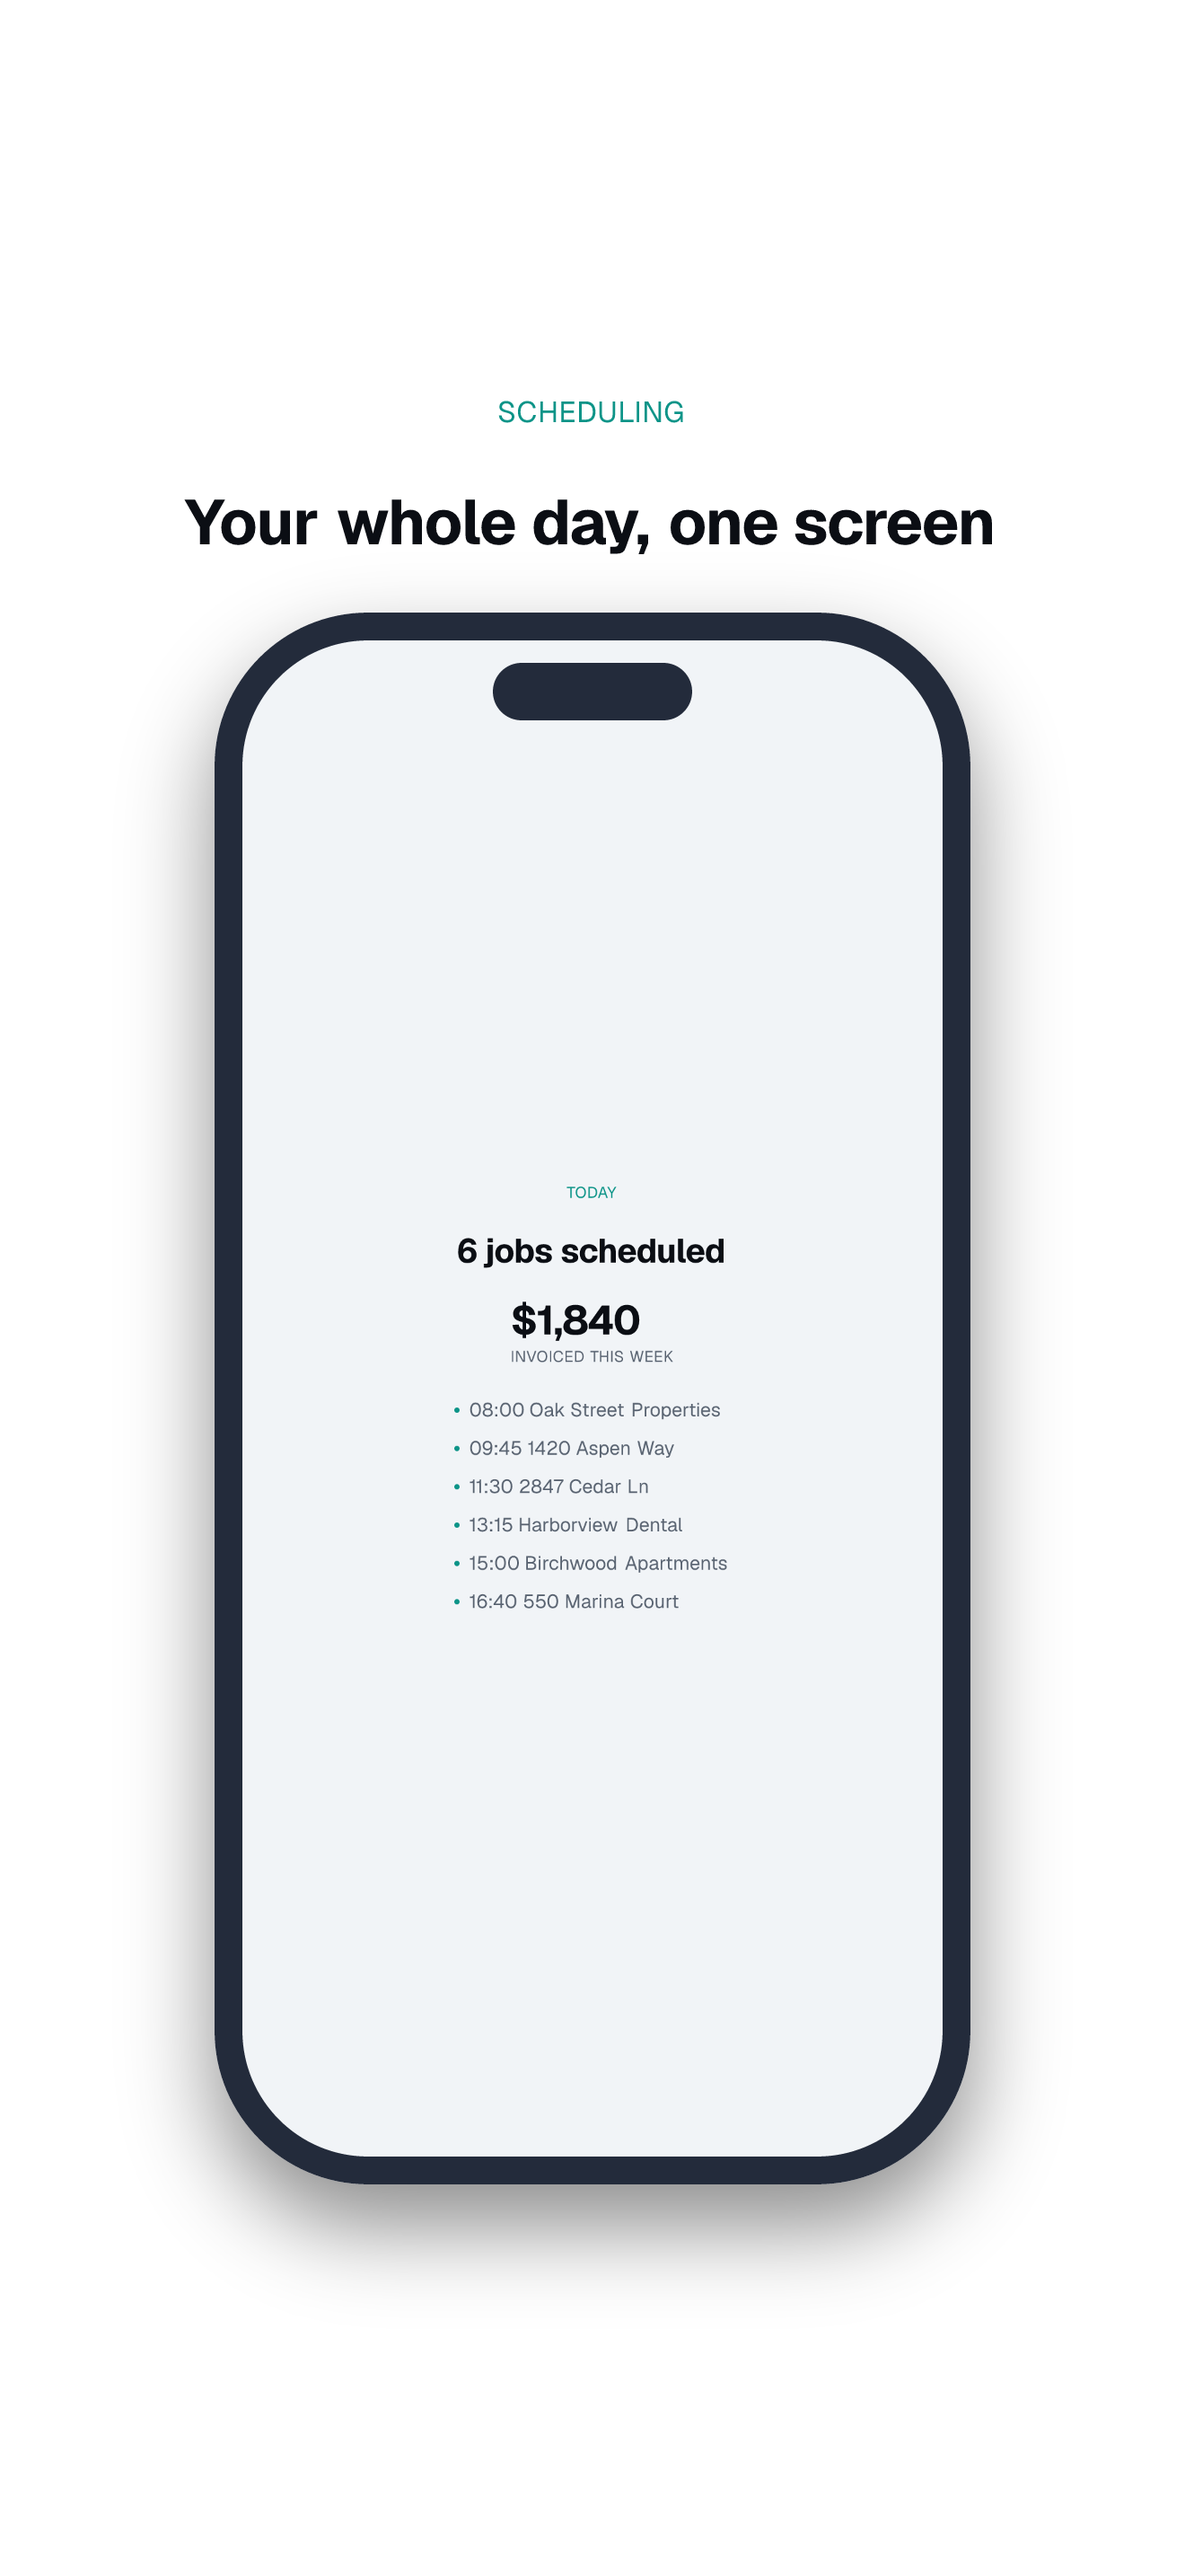
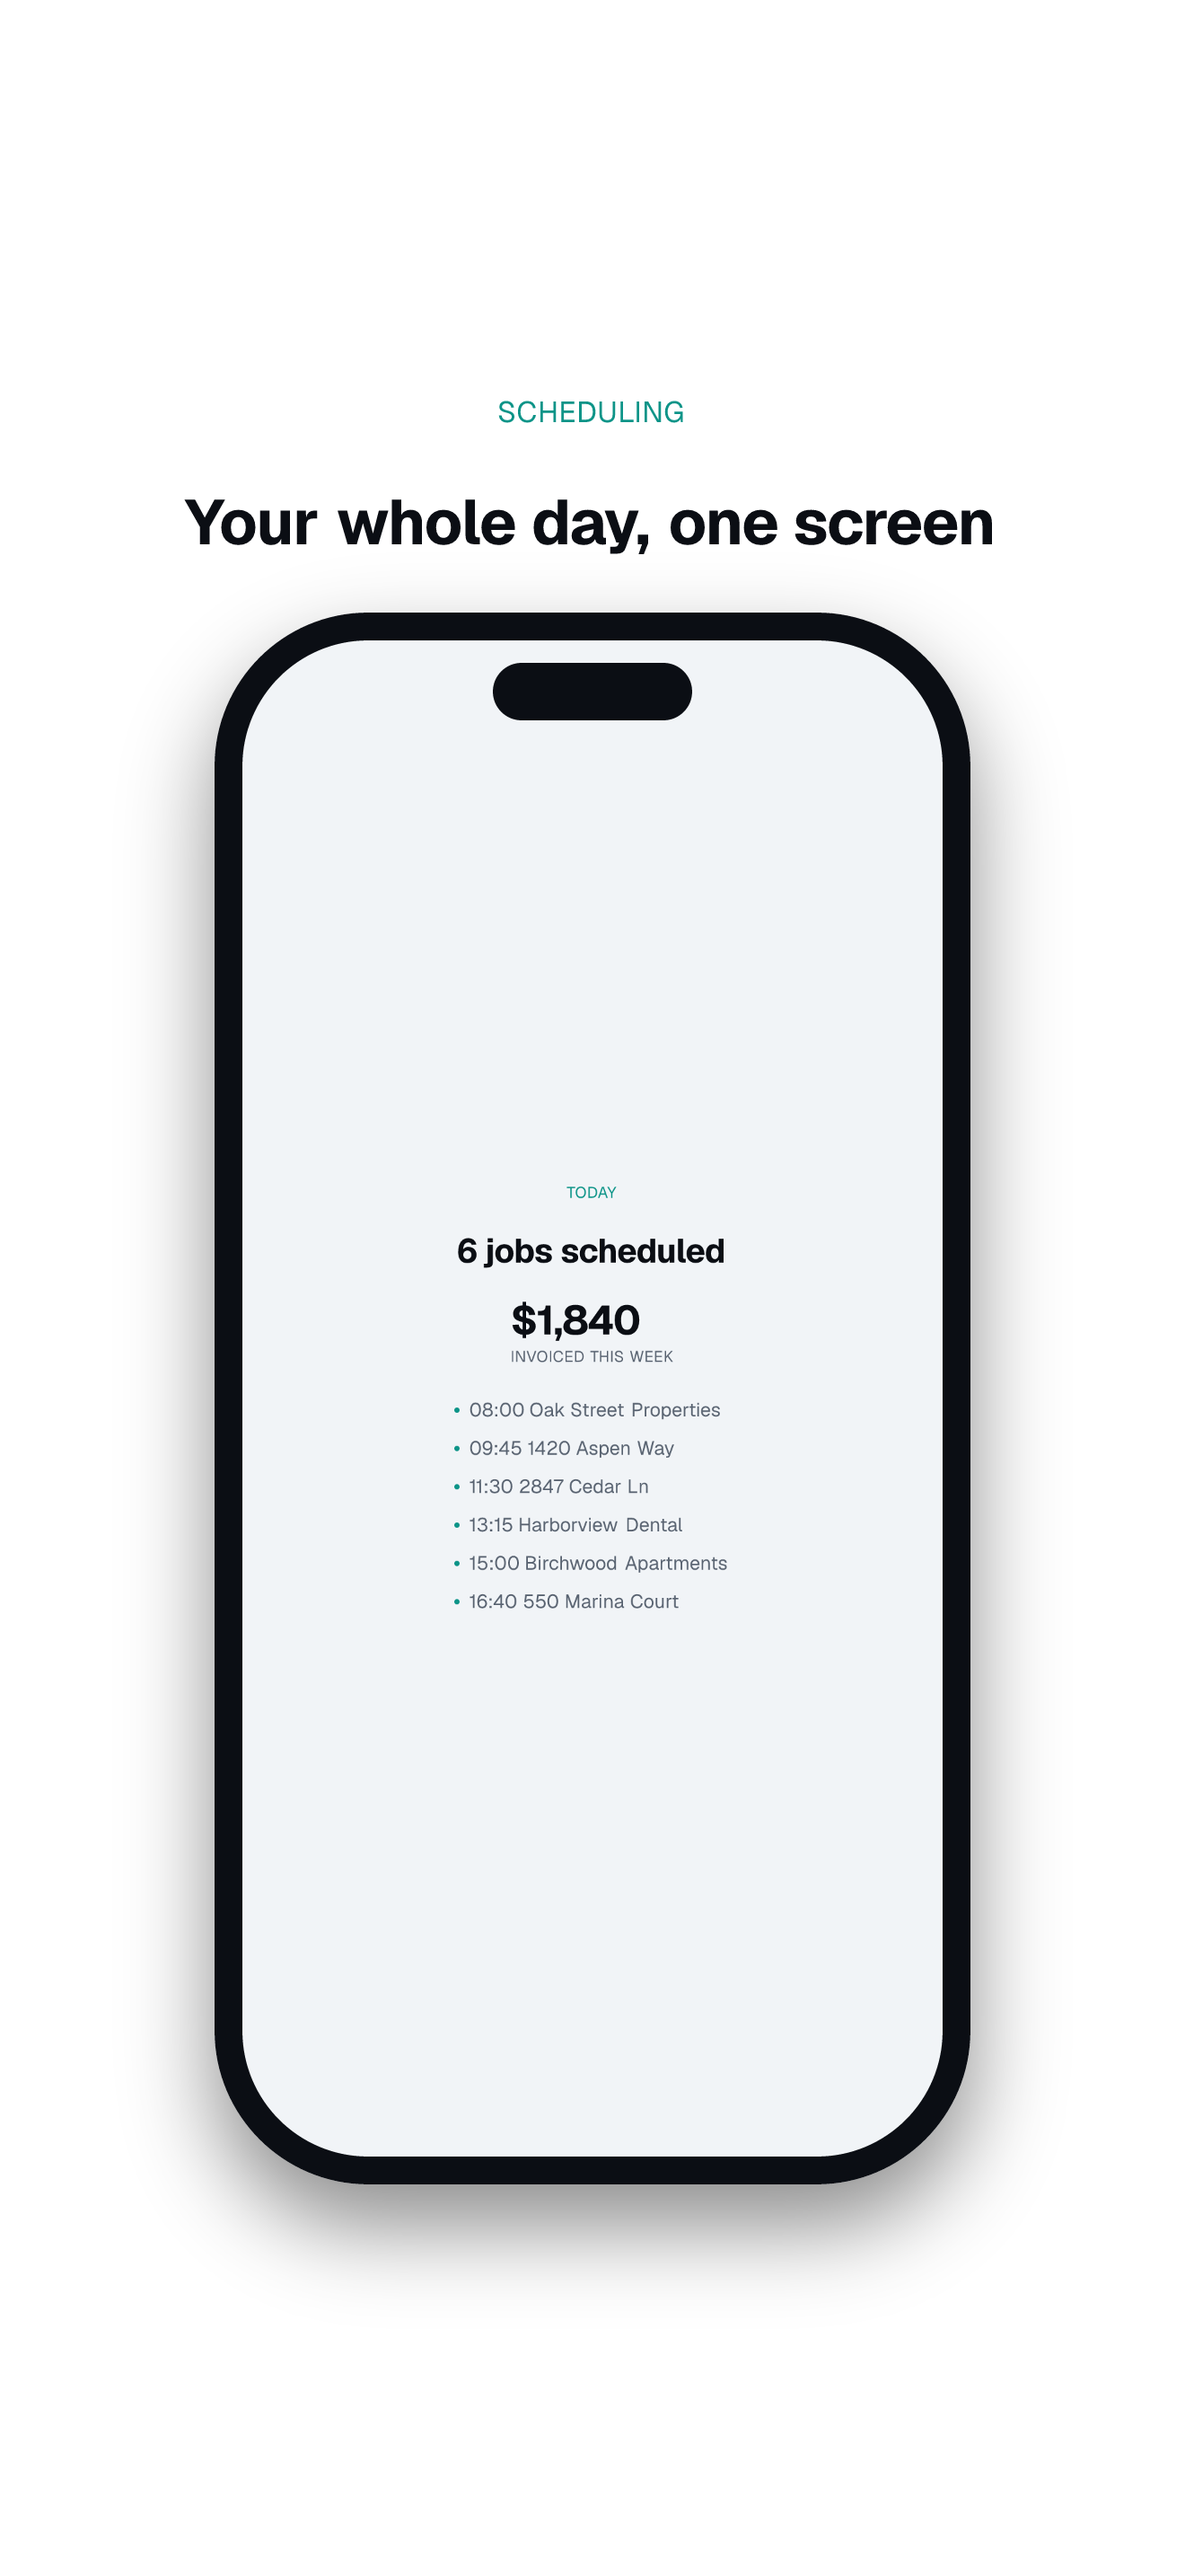
feat(example): stand the device on a light grey stage so the bezel reads black
The dark store frame had the relationship backwards. Its page was near black and
the bezel was lifted a few steps to separate from it, so the phone read as a
lighter shape on a dark ground, which is the opposite of how a black phone
looks anywhere else.

The backdrop is now a light grey and the bezel is black. That needed two tokens
rather than a redefinition: the screen inside the phone is dark, so `ink` has to
stay light for it, while the backdrop is light and its copy needs `stageInk`.
One `ink` cannot be both.

The light frame keeps its white page and picks up the same black bezel.

Changed region(s): [[0.1553, 0.2172, 0.8386, 0.8689]]

diff --git a/examples/source-app/mediakit.config.ts b/examples/source-app/mediakit.config.ts
@@ -125,11 +125,20 @@ export default defineConfig({
      * `accent` is a teal dark enough to clear 3:1 against white and light enough to clear it
      * against the dark canvas, since one value has to carry both themes.
      *
-     * `bezel` is overridden because the default is the same value as the default `canvas`, so a
-     * device on an unstyled dark page renders as a phone-shaped hole with only its shadow to
-     * separate it. Lifting it a few steps is what makes the store frame read as a device.
+     * `stage` is the backdrop the store frame stands the device on, kept separate from `canvas`
+     * because the two want opposite things here. The screen inside the phone is dark, so `ink`
+     * has to stay light for it; the backdrop is light, so its own copy needs `stageInk`. One
+     * `ink` cannot be both, which is why this is two tokens rather than a redefinition.
+     *
+     * `bezel` is black rather than the default, which is the same value as `canvas` and would
+     * render the device as a phone-shaped hole with only its shadow to separate it.
      */
-    color: { accent: '#0D9488', bezel: '#232B3B' },
+    color: {
+      accent: '#0D9488',
+      bezel: '#0B0E14',
+      stage: '#ECEEF1',
+      stageInk: '#0B0E14',
+    },
   },
   blocks: { PricingCard: card },
   layouts: { 'pricing-split': pricingSplit },

diff --git a/README.md b/README.md
@@ -30,8 +30,9 @@ Needs Node 22 or newer. Nothing is ever sent anywhere, at any point, including i
   <img width="190" src="examples/source-app/marketing/store/ios-6.9/frame-01.png" alt="The same App Store screenshot on a dark theme">
 </p>
 
-One spec made both of those. The only difference is a config that swaps four colour
-tokens, so a theme is a file rather than a second set of images to keep in sync.
+Same blocks, same layout, same copy. The two differ only in the colour tokens they are
+handed, so a second theme is a config file rather than a second set of images to keep in
+sync.
 
 You bring the screen, mediakit does the rest: the device frame, the headline, the sizing,
 and the checks. There are two ways to get the screen.
